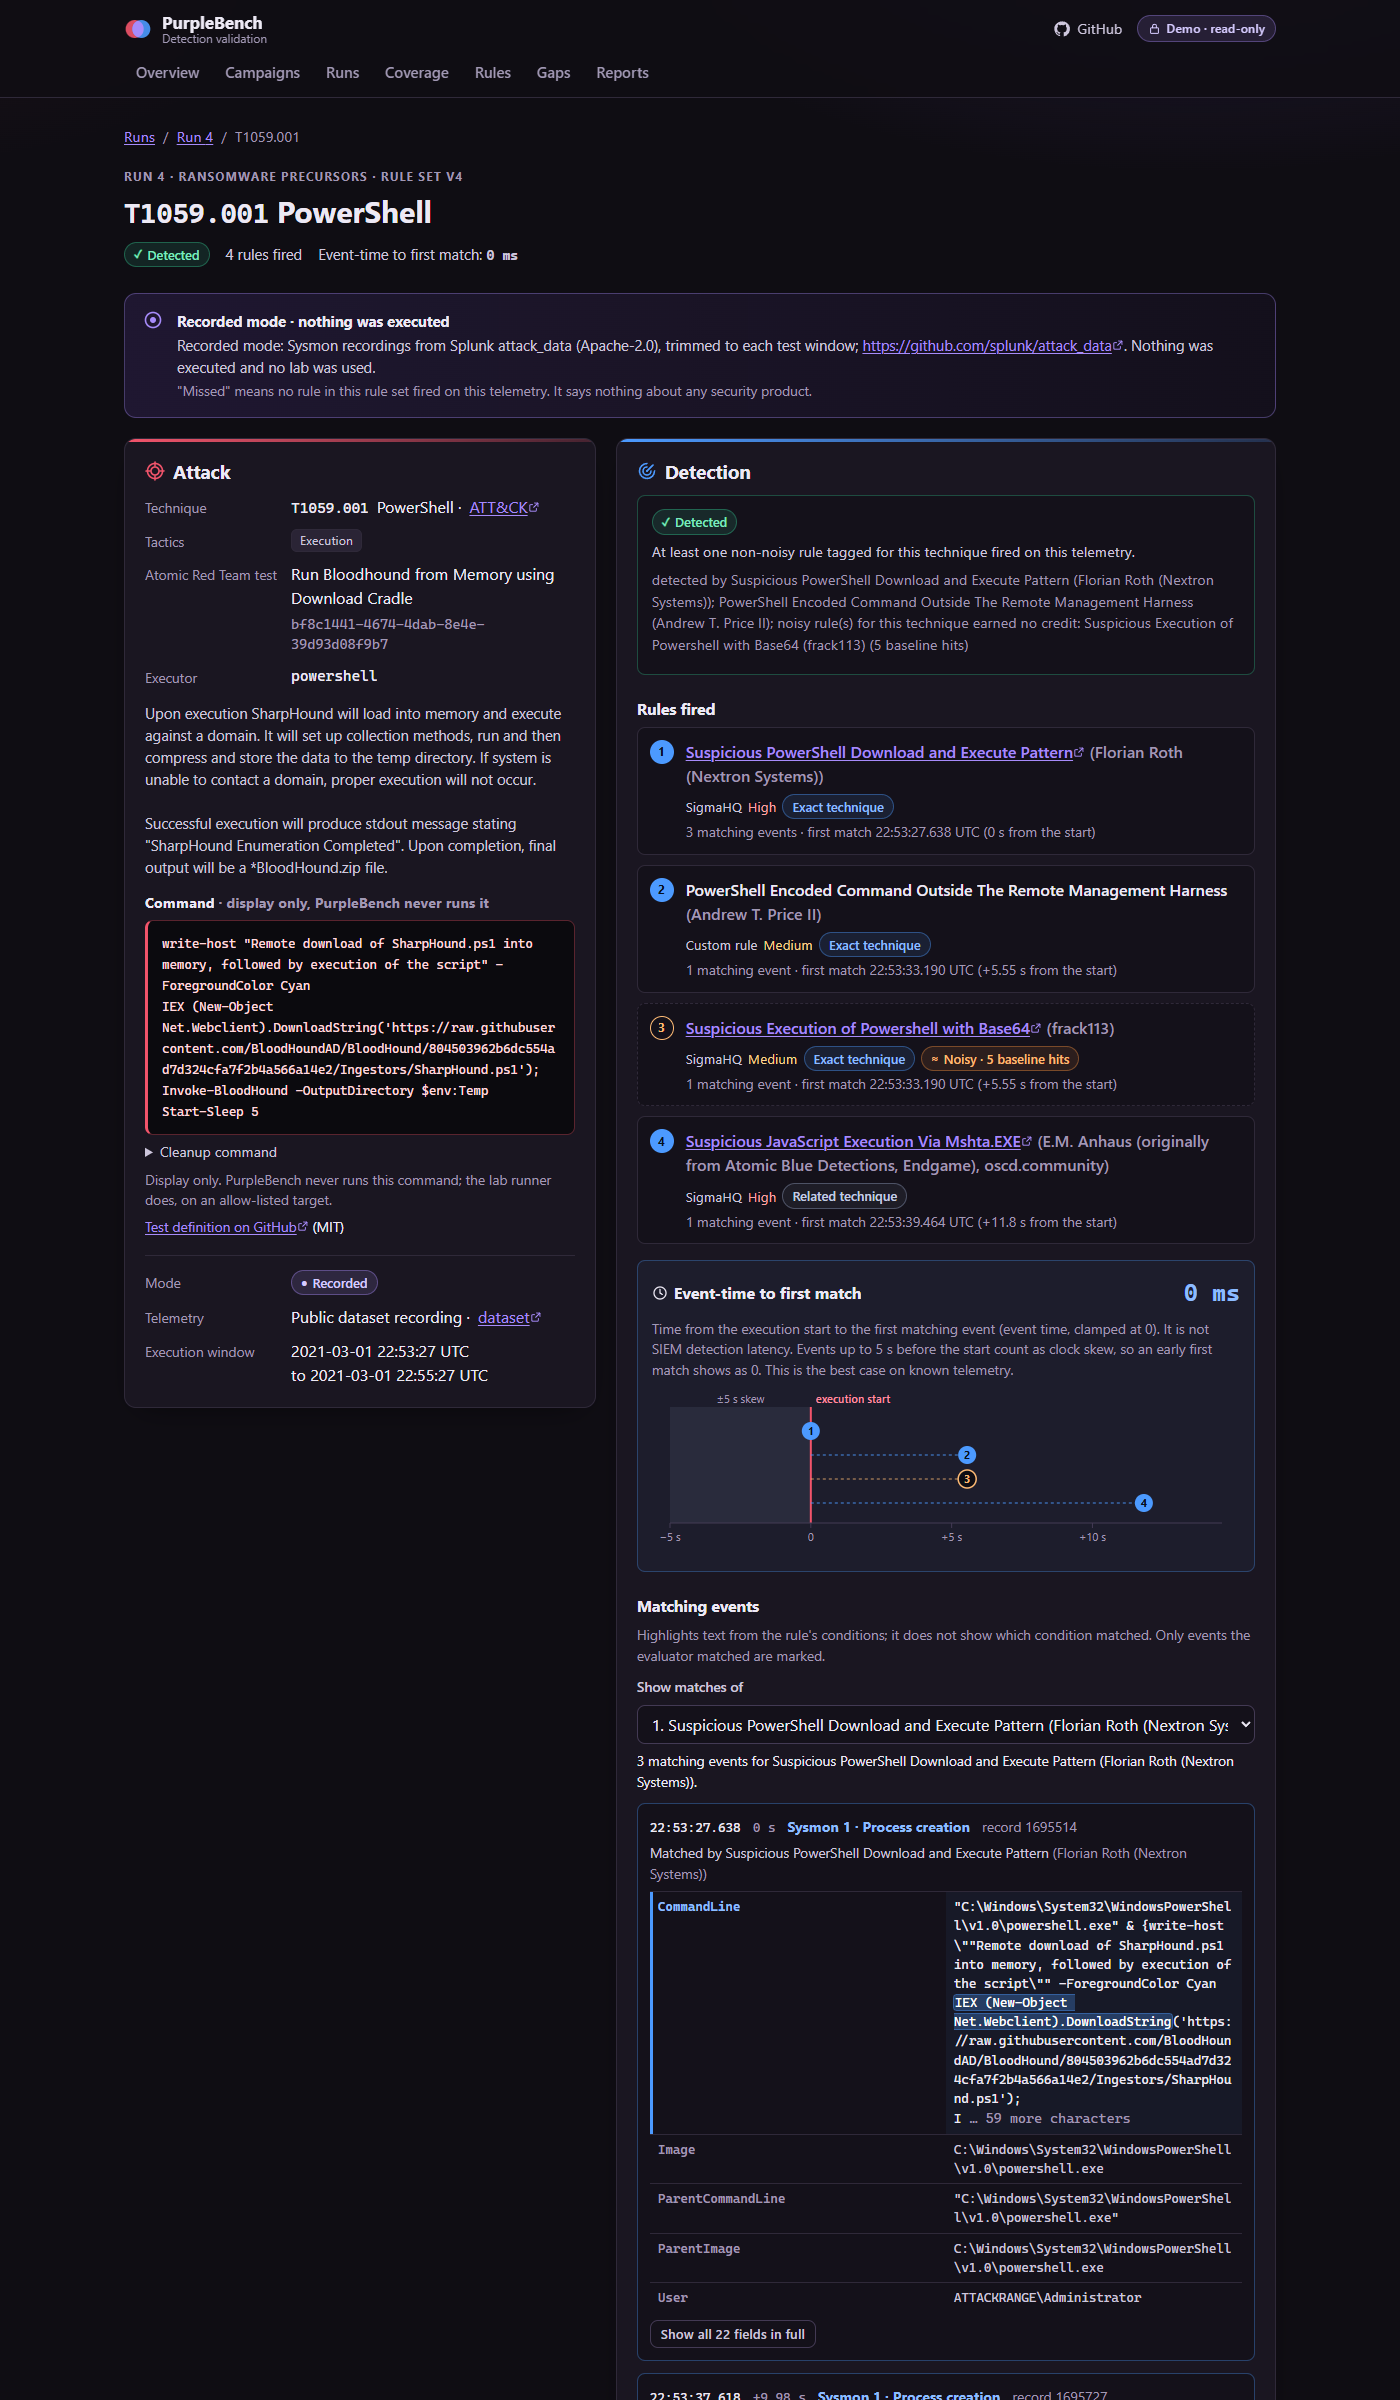
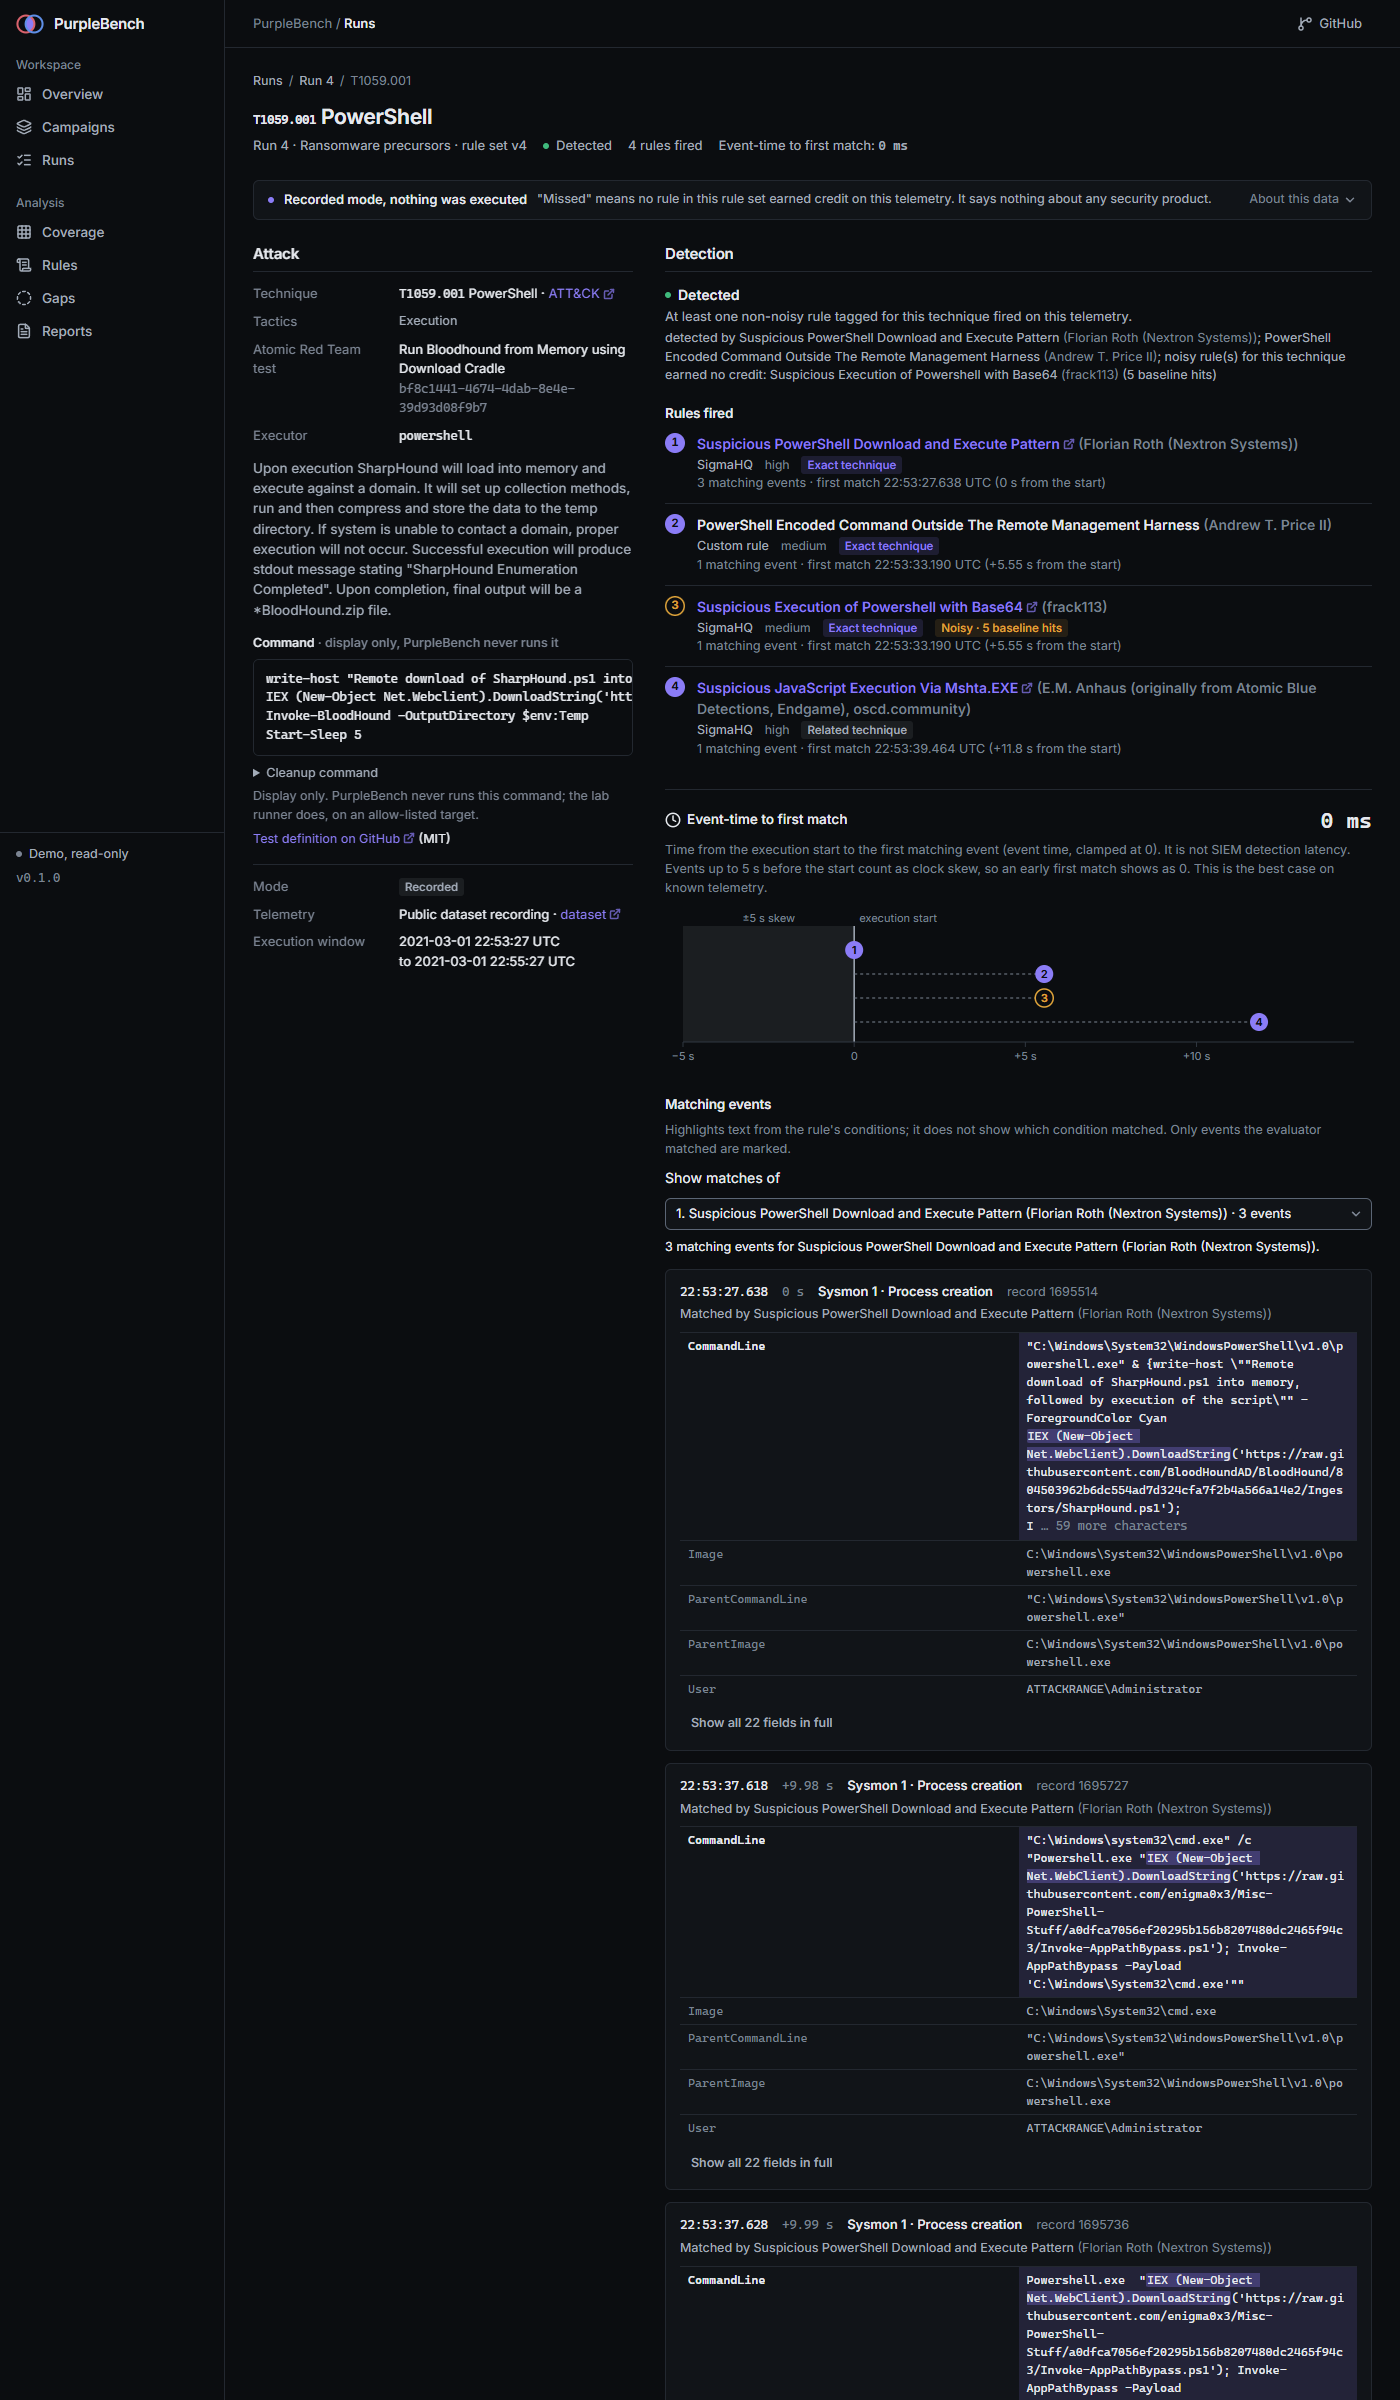
docs: retake screenshots, describe the dashboard

diff --git a/README.md b/README.md
@@ -28,6 +28,10 @@ PurpleBench does the small, honest version of that check: it names the rule set,
 5. **Export**: HTML and Markdown reports and an ATT&CK Navigator layer (format 4.5) per run.
 6. **Optional, lab mode**: run the campaign's Atomic tests yourself on a disposable lab VM with the PowerShell runner and upload the run file (see [Lab mode and safety](#lab-mode-and-safety)).
 
+## The dashboard
+
+A dark, table-first React dashboard with a fixed sidebar (a top bar with a menu drawer below 900 px). Pages: **Overview** (coverage score, trend, detection by tactic, open gaps, noisy rules), **Campaigns**, **Runs** (with a run page and a per-technique execution page that shows the matched events), **Coverage** (the ATT&CK matrix with a comparison between runs), **Rules**, **Gaps** and **Reports**. Every page carries a one-line recorded-mode notice that says what "missed" means; the sources and caveats open under "About this data", and the full ATT&CK notice, the dataset credits and the rule-author attribution stay in the footer and on each rule. Type is Inter, bundled with the app, and icons are Lucide; neither is loaded from a CDN (see [THIRD_PARTY.md](THIRD_PARTY.md)).
+
 ## The Sigma evaluator and its supported subset
 
 PurpleBench evaluates Sigma rules itself (`backend/purplebench/sigma/`), directly on normalised Windows events, targeting the [Sigma Rules Specification 2.1.0](https://github.com/SigmaHQ/sigma-specification). It implements a documented subset; pySigma is not used.
